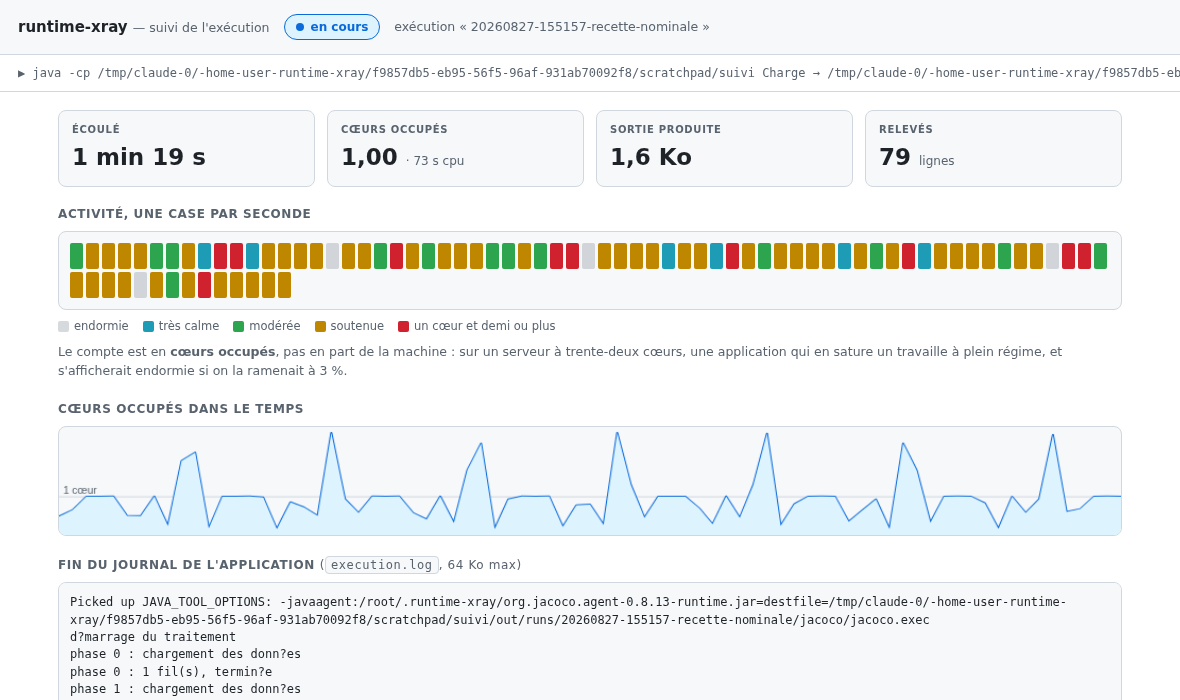
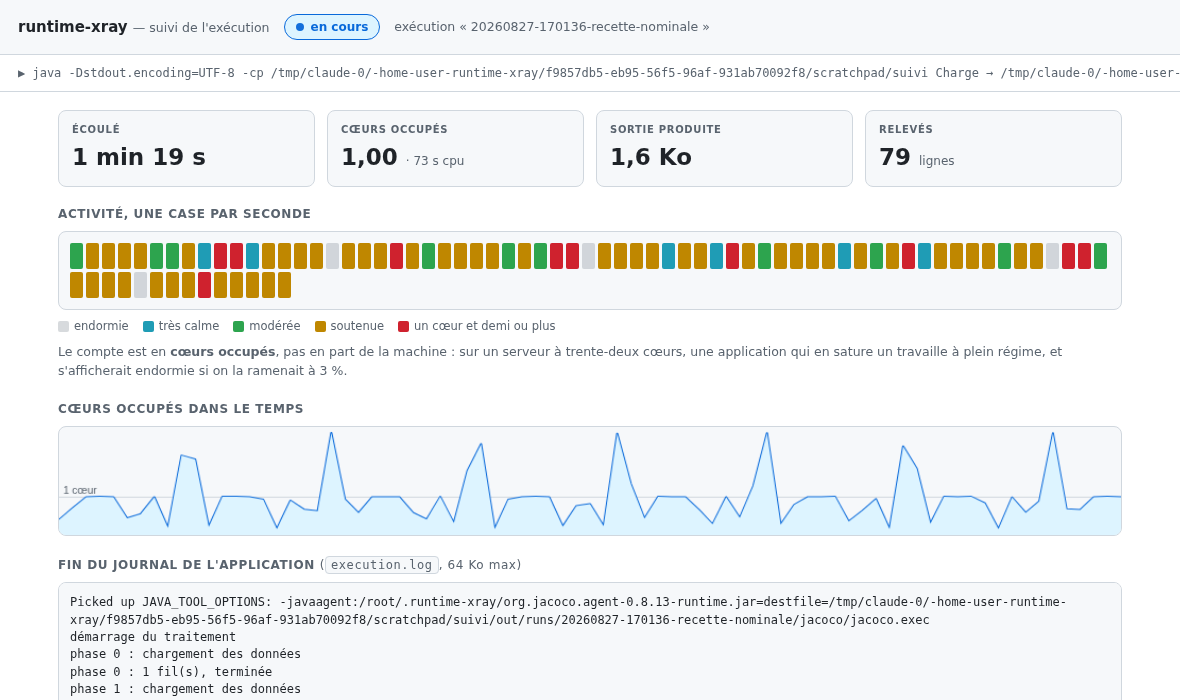
Un journal qui n'est pas en UTF-8 reste lisible, et le repli est dit
L'outil écrit en UTF-8. L'application observée, elle, écrit dans ce que sa JVM lui a donné
— et sur le parc visé c'est souvent CP1252 ou CP850. Ces octets-là servis en UTF-8
donnaient du charabia à la place des accents, donc sur la moitié des journaux français.

On ne devine qu'une fois, et seulement quand la certitude a échoué : des octets qui forment
de l'UTF-8 valide le sont et ne sont pas touchés ; les autres sont lus en ISO-8859-1, qui ne
rejette aucun octet et rend les accents des jeux occidentaux. Ce n'est pas exact dans tous
les cas, et c'est pourquoi le repli est annoncé dans la page plutôt que subi : un lecteur
qui voit un caractère douteux doit savoir qu'il regarde une interprétation.

Deviner en silence est ce que l'outil refuse ailleurs, pour les racines de sources. La
différence tient à ce que coûte l'erreur : du code faux affiché en face d'une couverture se
croit, un accent de travers se voit.

La capture de la documentation montrait justement des « ? » à la place des accents. Ils
venaient de la JVM d'essai, dont la sortie était en ASCII et qui les avait donc détruits à
l'écriture — pas de la page. Elle est refaite avec une sortie qui les conserve, faute de
quoi elle donnait à voir un défaut de l'outil qui n'en était pas un.

Claude-Session: https://claude.ai/code/session_01J956wjynbd7fkZx4HpjHzP

diff --git a/orchestrator/src/main/java/lab/xray/Suivi.java b/orchestrator/src/main/java/lab/xray/Suivi.java
@@ -153,8 +153,10 @@ public final class Suivi implements AutoCloseable {
                     case "/", "/index.html" -> envoyer(ex, "text/html; charset=utf-8", page());
                     case "/progression.jsonl" -> envoyer(ex, "application/x-ndjson; charset=utf-8",
                             lireOuVide(fichier));
-                    case "/execution.log" -> envoyer(ex, "text/plain; charset=utf-8",
-                            queue(runDir.resolve("execution.log")));
+                    case "/execution.log" -> {
+                        byte[] brut = queue(runDir.resolve("execution.log"));
+                        envoyer(ex, "text/plain; charset=utf-8", enUtf8(brut));
+                    }
                     default -> envoyer(ex, "text/plain; charset=utf-8",
                             "rien ici".getBytes(StandardCharsets.UTF_8));
                 }
@@ -198,6 +200,38 @@ public final class Suivi implements AutoCloseable {
                     java.nio.ByteBuffer.allocate((int) Math.min(taille - depuis, 64 * 1024));
             canal.read(tampon);
             return tampon.array();
+        }
+    }
+
+    /**
+     * Le journal de l'application, rendu lisible sans prétendre savoir dans quel jeu de
+     * caractères il a été écrit.
+     *
+     * <p>L'outil écrit en UTF-8 ; l'application observée, non — elle écrit dans ce que sa
+     * JVM lui a donné, et sur le parc visé c'est souvent CP1252 ou CP850. Servir ces
+     * octets-là en UTF-8 donne du charabia à la place des accents, sur la moitié des
+     * journaux français.
+     *
+     * <p>On ne devine donc qu'une fois, et seulement quand la certitude a échoué : si les
+     * octets forment de l'UTF-8 valide, ils le sont ; sinon on les lit en ISO-8859-1, qui
+     * ne rejette aucun octet et rend les accents des jeux occidentaux. Ce n'est pas exact
+     * dans tous les cas, et le repli est <b>annoncé dans la page</b> plutôt que subi : un
+     * lecteur qui voit un caractère douteux doit savoir que c'est une interprétation.
+     *
+     * <p>Le contraire — deviner en silence — est ce que l'outil refuse ailleurs, pour les
+     * racines de sources. La différence tient à ce que coûte l'erreur : du code faux en
+     * face d'une couverture se croit, un accent de travers se voit.
+     */
+    static byte[] enUtf8(byte[] brut) {
+        if (brut.length == 0) return brut;
+        var strict = StandardCharsets.UTF_8.newDecoder();
+        try {
+            strict.decode(java.nio.ByteBuffer.wrap(brut));
+            return brut;
+        } catch (java.nio.charset.CharacterCodingException pasDeLUtf8) {
+            String texte = new String(brut, StandardCharsets.ISO_8859_1);
+            return ("[runtime-xray : ce journal n'est pas en UTF-8 ; lu en ISO-8859-1]\n"
+                    + texte).getBytes(StandardCharsets.UTF_8);
         }
     }
 

diff --git a/orchestrator/src/test/java/lab/xray/SuiviTest.java b/orchestrator/src/test/java/lab/xray/SuiviTest.java
@@ -14,6 +14,7 @@ import java.util.ArrayList;
 import java.util.List;
 import java.util.Map;
 
+import static org.junit.jupiter.api.Assertions.assertArrayEquals;
 import static org.junit.jupiter.api.Assertions.assertEquals;
 import static org.junit.jupiter.api.Assertions.assertFalse;
 import static org.junit.jupiter.api.Assertions.assertTrue;
@@ -138,5 +139,24 @@ class SuiviTest {
         assertTrue(page.contains("cœurs occupés"),
                 "le compte est en cœurs, pas en part de machine — et la page doit le dire, "
                 + "sinon on lit une saturation là où il y a un cœur sur trente-deux");
+    }
+
+    @Test
+    @DisplayName("Un journal qui n'est pas en UTF-8 est lu quand même, et le repli est dit")
+    void aLogThatIsNotUtf8IsStillReadAndTheFallbackIsStated() {
+        // L'outil écrit en UTF-8 ; l'application observée écrit dans ce que sa JVM lui a
+        // donné, et sur le parc visé c'est souvent CP1252 ou CP850. Servi tel quel en UTF-8,
+        // « démarrage terminé » devient du charabia sur la moitié des journaux français.
+        byte[] latin1 = "démarrage terminé".getBytes(StandardCharsets.ISO_8859_1);
+        String rendu = new String(Suivi.enUtf8(latin1), StandardCharsets.UTF_8);
+        assertTrue(rendu.contains("démarrage terminé"), "les accents doivent revenir");
+        assertTrue(rendu.contains("ISO-8859-1"),
+                "deviner est acceptable ici, le taire ne l'est pas : un lecteur qui voit un "
+                + "caractère douteux doit savoir que c'est une interprétation");
+
+        // De l'UTF-8 valide n'est jamais touché — pas de repli, pas d'avertissement.
+        byte[] utf8 = "démarrage terminé".getBytes(StandardCharsets.UTF_8);
+        assertArrayEquals(utf8, Suivi.enUtf8(utf8));
+        assertEquals(0, Suivi.enUtf8(new byte[0]).length);
     }
 }
